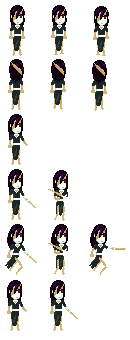
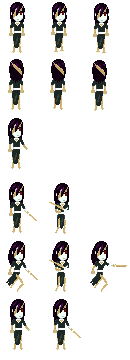
just image editing

diff --git a/public/js/game/testBattle.js b/public/js/game/testBattle.js
@@ -5,8 +5,8 @@ preload.prototype = {
 	preload: function(){ 
 	  this.game.load.image('background', './images/game-background.png');
 		this.game.load.spritesheet('stuntman', './images/stuntman.png', 37, 52, 15);
-		this.game.load.spritesheet('gen', './images/gen.png', 39, 58, 15);
-		this.game.load.spritesheet('healer', './images/healer.png', 47, 60, 15);
+		this.game.load.spritesheet('gen', './images/gen.png', 36, 57, 15);
+		this.game.load.spritesheet('healer', './images/healer.png', 43, 58, 15);
     this.game.load.spritesheet('arrow-left', './images/arrow-left.png', 128, 128);
     this.game.load.spritesheet('arrow-right', './images/arrow-right.png', 128, 128);
     this.game.load.spritesheet('arrow-up', './images/arrow-up.png', 128, 128);
